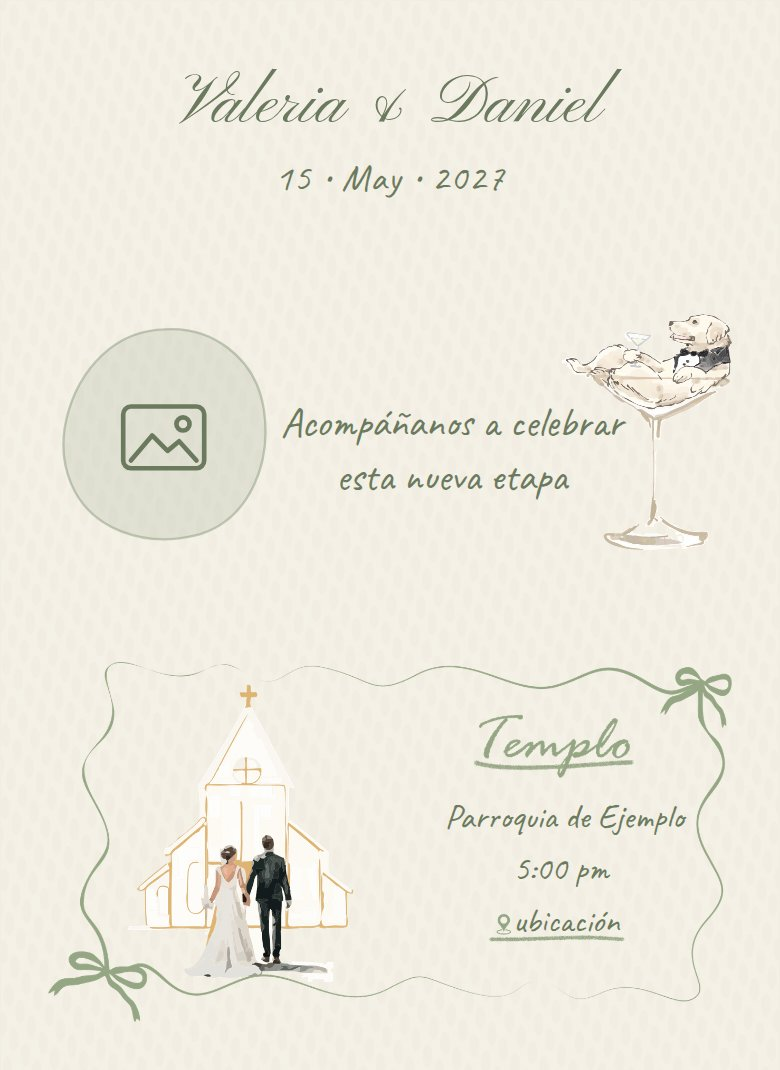
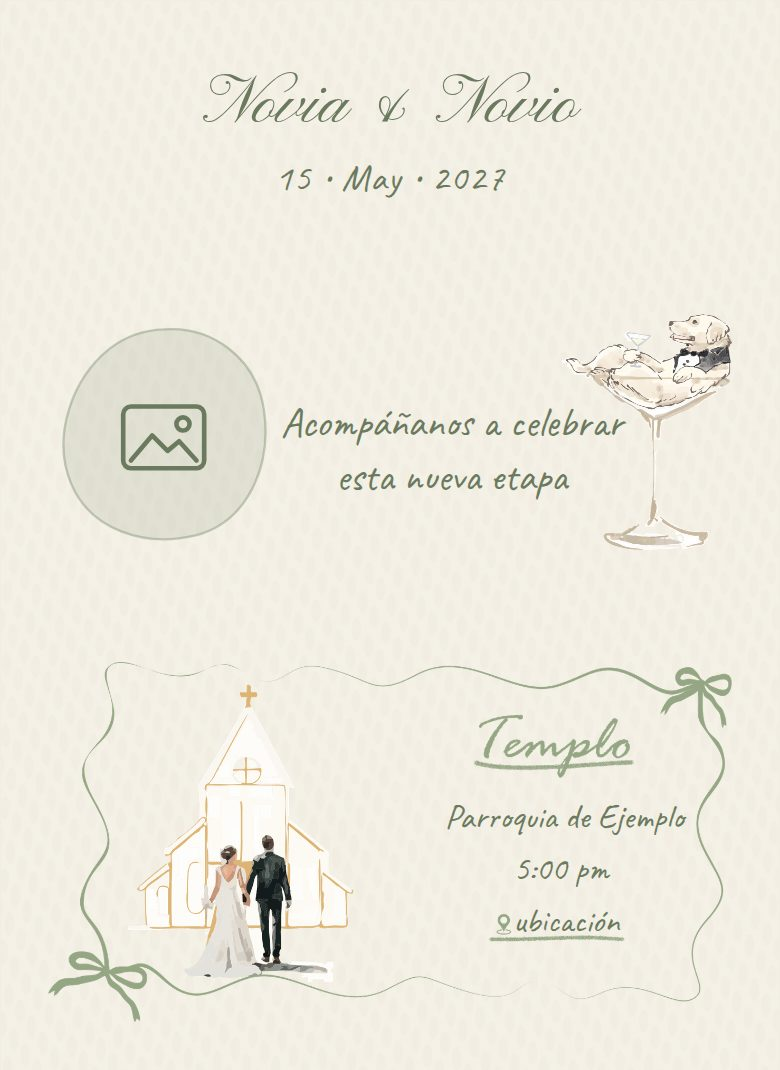
[IMP] Call the demo couple Novia and Novio, with fake phone numbers

Changed region(s): [[0.2462, 0.0617, 0.5231, 0.1234], [0.5538, 0.0617, 0.7692, 0.1234], [0.7692, 0.0617, 0.8, 0.0925]]

diff --git a/apps-script/apps-script.test.js b/apps-script/apps-script.test.js
@@ -5,11 +5,11 @@ import vm from 'node:vm';
 
 const HEADERS = ['Fecha', 'Nombre', 'Teléfono', 'Ceremonia', 'Recepción', 'Invitación'];
 const ANSWER = {
-	nombre: 'Ana López',
-	telefono: '+52 555 000 00 00',
+	nombre: 'Invitada de Ejemplo',
+	telefono: '+52 000 000 00 00',
 	ceremonia: 'Sí',
 	recepcion: 'No',
-	invitacion: 'Familia López',
+	invitacion: 'Familia Ejemplo',
 };
 
 // Runs the Apps Script files in a sandbox, with fakes for the Google services they use.
@@ -82,11 +82,11 @@ test('appends one row per answer, with the invitation it came from', () => {
 	assert.deepEqual(post(ANSWER), { ok: true });
 	assert.deepEqual(rows[0], HEADERS);
 	assert.deepEqual(rows[1].slice(1), [
-		'Ana López',
-		"'+52 555 000 00 00",
+		'Invitada de Ejemplo',
+		"'+52 000 000 00 00",
 		'Sí',
 		'No',
-		'Familia López',
+		'Familia Ejemplo',
 	]);
 });
 
@@ -128,7 +128,7 @@ test('stores nothing for honeypot submissions, incomplete answers or bad JSON', 
 
 const BOTH_CHANNELS = {
 	NOTIFY_EMAIL: 'novia@example.com, novio@example.com',
-	CALLMEBOT_PHONE: '+52 55 1234 5678',
+	CALLMEBOT_PHONE: '+52 000 000 0000',
 	CALLMEBOT_APIKEY: '123456',
 };
 
@@ -148,9 +148,9 @@ test('emails each answer to NOTIFY_EMAIL', () => {
 	post(ANSWER);
 	assert.equal(sent.emails.length, 1);
 	assert.equal(sent.emails[0].to, 'novia@example.com, novio@example.com');
-	assert.equal(sent.emails[0].subject, 'Nueva respuesta: Ana López');
-	assert.match(sent.emails[0].body, /Ceremonia: Sí\nRecepción: No\nTeléfono: \+52 555 000 00 00/);
-	assert.match(sent.emails[0].body, /Invitación: Familia López/);
+	assert.equal(sent.emails[0].subject, 'Nueva respuesta: Invitada de Ejemplo');
+	assert.match(sent.emails[0].body, /Ceremonia: Sí\nRecepción: No\nTeléfono: \+52 000 000 00 00/);
+	assert.match(sent.emails[0].body, /Invitación: Familia Ejemplo/);
 	assert.match(sent.emails[0].body, /docs\.google\.com\/spreadsheets/);
 	assert.deepEqual(sent.urls, []);
 });
@@ -158,7 +158,7 @@ test('emails each answer to NOTIFY_EMAIL', () => {
 test('sends each answer by WhatsApp through CallMeBot', () => {
 	const { sent, post } = load({
 		files: ['Code.gs', 'Notifications.gs'],
-		properties: { CALLMEBOT_PHONE: ' +52 55 1234 5678 ', CALLMEBOT_APIKEY: '123456' },
+		properties: { CALLMEBOT_PHONE: ' +52 000 000 0000 ', CALLMEBOT_APIKEY: '123456' },
 	});
 
 	post({ ...ANSWER, invitacion: '' });
@@ -166,11 +166,11 @@ test('sends each answer by WhatsApp through CallMeBot', () => {
 
 	const url = sent.urls[0];
 	assert.equal(url.origin + url.pathname, 'https://api.callmebot.com/whatsapp.php');
-	assert.equal(url.searchParams.get('phone'), '+52 55 1234 5678');
+	assert.equal(url.searchParams.get('phone'), '+52 000 000 0000');
 	assert.equal(url.searchParams.get('apikey'), '123456');
 	assert.equal(
 		url.searchParams.get('text'),
-		'💌 *Ana López* respondió a la invitación\nCeremonia: Sí\nRecepción: No\nTeléfono: +52 555 000 00 00',
+		'💌 *Invitada de Ejemplo* respondió a la invitación\nCeremonia: Sí\nRecepción: No\nTeléfono: +52 000 000 00 00',
 	);
 	assert.deepEqual(sent.emails, []);
 });

diff --git a/plugins/vite-plugin-invitation.test.js b/plugins/vite-plugin-invitation.test.js
@@ -4,7 +4,7 @@ import invitation from './vite-plugin-invitation.js';
 
 const config = {
 	site: { url: 'https://example.com/boda/', description: 'Línea 1\nLínea 2' },
-	couple: { partner1: 'ángela', partner2: 'Daniel', joiner: '&' },
+	couple: { partner1: 'ángela', partner2: 'Novio', joiner: '&' },
 	date: '2027-05-15T17:00:00-06:00',
 	ceremony: {
 		venue: 'Parroquia de San José',
@@ -47,8 +47,8 @@ test('in attributes, collapses line breaks and joins lists with commas', () => {
 });
 
 test('derives the names, the initials for the wax seal and the date parts', () => {
-	assert.equal(render('{{ couple.names }}'), 'ángela &amp; Daniel');
-	assert.equal(render('{{ couple.initials.partner1 }}{{ couple.initials.partner2 }}'), 'ÁD');
+	assert.equal(render('{{ couple.names }}'), 'ángela &amp; Novio');
+	assert.equal(render('{{ couple.initials.partner1 }}{{ couple.initials.partner2 }}'), 'ÁN');
 	assert.equal(
 		render('{{ date.day }} {{ date.month }} {{ date.monthShort }} {{ date.year }}'),
 		'15 Mayo May 2027',
@@ -82,7 +82,7 @@ test('links to a Google Calendar event from the ceremony start, lasting calendar
 
 	assert.equal(url.origin + url.pathname, 'https://calendar.google.com/calendar/render');
 	assert.equal(url.searchParams.get('dates'), '20270515T230000Z/20270516T070000Z');
-	assert.equal(url.searchParams.get('text'), 'Boda de ángela & Daniel');
+	assert.equal(url.searchParams.get('text'), 'Boda de ángela & Novio');
 	assert.equal(url.searchParams.get('location'), 'Parroquia de San José');
 	assert.match(url.searchParams.get('details'), /\nRecepción: Jardín Las Flores, 7:30 pm\n/);
 });
@@ -107,7 +107,7 @@ test('writes an iCalendar file with escaped text and lines of at most 75 bytes',
 		'lines folded at 75 bytes',
 	);
 	assert.match(unfolded, /\r\nDTSTART:20270515T230000Z\r\nDTEND:20270516T070000Z\r\n/);
-	assert.match(unfolded, /\r\nSUMMARY:Boda de ángela & Daniel\r\n/);
+	assert.match(unfolded, /\r\nSUMMARY:Boda de ángela & Novio\r\n/);
 	assert.match(
 		unfolded,
 		/\r\nDESCRIPTION:Ceremonia: Parroquia de San José\\, 5:00 pm\\nhttps:\/\/maps\.example\/a\\n/,

diff --git a/src/scripts/rsvp.js b/src/scripts/rsvp.js
@@ -14,7 +14,7 @@ const DEMO_DELAY_MS = 800;
 // Strips anything that isn't a digit or a leading "+", then groups the
 // local 10 digits as XXX XXX XX XX. If a country code is present
 // (digits beyond the last 10, only when the value starts with "+"),
-// it's kept separate: "+52 555 000 00 00".
+// it's kept separate: "+52 000 000 00 00".
 function formatPhoneInput(raw) {
 	const hasPlus = raw.trim().startsWith('+');
 	const digits = raw.replace(/\D/g, '');

diff --git a/src/invitation.config.js b/src/invitation.config.js
@@ -20,8 +20,8 @@ export default {
 	},
 
 	couple: {
-		partner1: 'Valeria',
-		partner2: 'Daniel',
+		partner1: 'Novia',
+		partner2: 'Novio',
 		// Joins the two names in the page title, link preview and header ("&" or "y").
 		joiner: '&',
 		photo: '/assets/images/photo-placeholder.svg',

diff --git a/README.md b/README.md
@@ -12,9 +12,9 @@ The site copy is in Spanish; the code and documentation are in English.
 
 Phone viewport (390px wide) with the placeholder content.
 
-|                                                                            The envelope, with the guest's name from the link                                                                             |                                                                          Opening it                                                                           |
-| :------------------------------------------------------------------------------------------------------------------------------------------------------------------------------------------------------: | :-----------------------------------------------------------------------------------------------------------------------------------------------------------: |
-| <img src="docs/screenshots/envelope.jpg" width="260" alt="Envelope sealed with a sage wax seal showing the initials V and D, addressed to Familia Pérez, under the names Valeria & Daniel and the date"> | <img src="docs/screenshots/envelope-opening.jpg" width="260" alt="The opened envelope with its patterned liner and a card reading ¡Nos casamos! sliding out"> |
+|                                                                           The envelope, with the guest's name from the link                                                                           |                                                                          Opening it                                                                           |
+| :---------------------------------------------------------------------------------------------------------------------------------------------------------------------------------------------------: | :-----------------------------------------------------------------------------------------------------------------------------------------------------------: |
+| <img src="docs/screenshots/envelope.jpg" width="260" alt="Envelope sealed with a sage wax seal showing the initials N and N, addressed to Familia Pérez, under the names Novia & Novio and the date"> | <img src="docs/screenshots/envelope-opening.jpg" width="260" alt="The opened envelope with its patterned liner and a card reading ¡Nos casamos! sliding out"> |
 
 |                                                                    Hero and ceremony                                                                     |                                                                            Dress code, gifts and countdown                                                                             |                                                          RSVP                                                           |
 | :------------------------------------------------------------------------------------------------------------------------------------------------------: | :------------------------------------------------------------------------------------------------------------------------------------------------------------------------------------: | :---------------------------------------------------------------------------------------------------------------------: |
@@ -29,7 +29,7 @@ Phone viewport (390px wide) with the placeholder content.
 - **Scroll-reveal animations** with `IntersectionObserver`, starting once the envelope is open. Blocks that come into view together appear one after another. They are opt-in: content only starts hidden when the visitor allows motion (`prefers-reduced-motion: no-preference`) and JavaScript is running, so it's never stuck invisible. With reduced motion, the envelope simply fades away.
 - **Live countdown** to the ceremony, read from the config, replaced by "¡Llegó el gran día!" once the day comes.
 - **Add to calendar:** under the countdown, a Google Calendar link and an `.ics` file for iPhone and Outlook, both made from the config at build time, with the two venues and the invitation link in the event.
-- **RSVP form** with Sí/No toggles per event, phone formatting (`+52 555 000 00 00`), validation messages in the form itself rather than pop-up alerts, a honeypot field against bots and two backends: a network-free **demo** mode and a **Google Apps Script** mode that writes each answer to a Google Sheet and can send it to the couple by email or WhatsApp.
+- **RSVP form** with Sí/No toggles per event, phone formatting (`+52 000 000 00 00`), validation messages in the form itself rather than pop-up alerts, a honeypot field against bots and two backends: a network-free **demo** mode and a **Google Apps Script** mode that writes each answer to a Google Sheet and can send it to the couple by email or WhatsApp.
 - **Link previews that work on WhatsApp:** the page title and Open Graph tags are in the static HTML, generated from the config by a small Vite plugin. Link-preview crawlers don't run JavaScript.
 - **One config file:** `src/invitation.config.js`. A placeholder without a matching value fails the build instead of shipping `{{ … }}` to guests.
 - **Accessible:** a real `<h1>` and section headings for screen readers (the visible titles are drawn into the artwork), labelled form controls and toggle groups, the invitation kept out of reach (`inert`) behind the closed envelope, focus moved to the invitation once it opens and to the confirmation message after sending, and `autocomplete` hints.
@@ -54,7 +54,7 @@ npm run dev # then open the URL Vite prints (it includes the base path from site
 | `site.url`                                            | Public URL of the deployed site, without a trailing slash. Used for `og:url` and for the absolute `og:image` URL that WhatsApp needs. Its path is also the base the site is built for, e.g. `/<repo>/` on GitHub Pages. |
 | `site.description`                                    | Meta description and link-preview text.                                                                                                                                                                                 |
 | `site.ogImage`, `site.ogImageAlt`                     | Link-preview image (1200×630) and its alt text.                                                                                                                                                                         |
-| `couple.partner1`, `couple.partner2`, `couple.joiner` | Names, joined as "Valeria & Daniel" in the page title, link preview and header.                                                                                                                                         |
+| `couple.partner1`, `couple.partner2`, `couple.joiner` | Names, joined as "Novia & Novio" in the page title, link preview and header.                                                                                                                                            |
 | `couple.photo`                                        | Photo next to the welcome text (586×612 frame; other shapes are cropped, not stretched).                                                                                                                                |
 | `date`                                                | Ceremony start in ISO 8601 with the venue's UTC offset, e.g. `2027-05-15T17:00:00-06:00`. Drives the countdown and every displayed date.                                                                                |
 | `intro`                                               | Welcome text next to the photo.                                                                                                                                                                                         |
@@ -99,7 +99,7 @@ To make the links for a whole guest list, put the names in column A of a Google 
 ="https://lfrocharod.github.io/wedding-invitation-template/?para="&ENCODEURL(A2)
 ```
 
-With phone numbers in column C (country code included, digits only, e.g. `525512345678`), this in D2 makes a link that opens WhatsApp with the message ready to send (in a sheet set to a locale with a decimal comma, such as Spain's, separate the arguments with `;`):
+With phone numbers in column C (country code included, digits only, e.g. `520000000000`), this in D2 makes a link that opens WhatsApp with the message ready to send (in a sheet set to a locale with a decimal comma, such as Spain's, separate the arguments with `;`):
 
 ```text
 =HYPERLINK("https://wa.me/"&C2&"?text="&ENCODEURL("¡Hola! Con mucho cariño te compartimos nuestra invitación: "&B2), "Enviar")
@@ -162,7 +162,7 @@ Instead of checking the sheet, the couple can get each answer by email, by Whats
     | Property           | Value                                                                      |
     | ------------------ | -------------------------------------------------------------------------- |
     | `NOTIFY_EMAIL`     | One or more email addresses, separated by commas                           |
-    | `CALLMEBOT_PHONE`  | The WhatsApp number to notify, with its country code, e.g. `+525512345678` |
+    | `CALLMEBOT_PHONE`  | The WhatsApp number to notify, with its country code, e.g. `+520000000000` |
     | `CALLMEBOT_APIKEY` | That number's CallMeBot API key (see below)                                |
 
 3. Back in the editor, open `Notifications.gs`, select `sendTestNotification` in the toolbar and click **Run**. Authorize the new permissions (sending email as you and connecting to an external service), and a test answer arrives on each channel. If one doesn't, **Executions** shows why.
